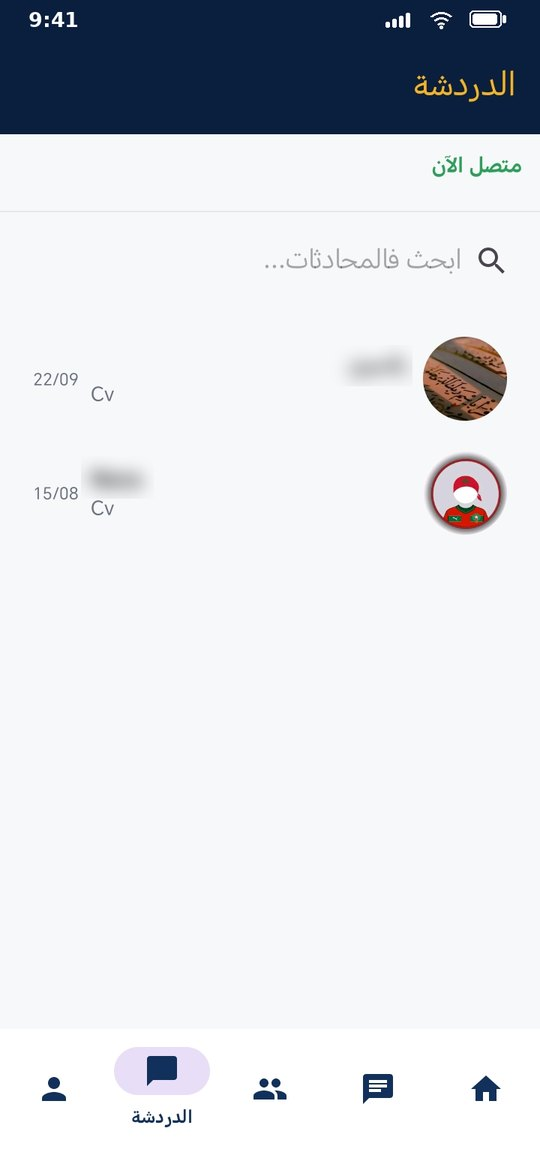
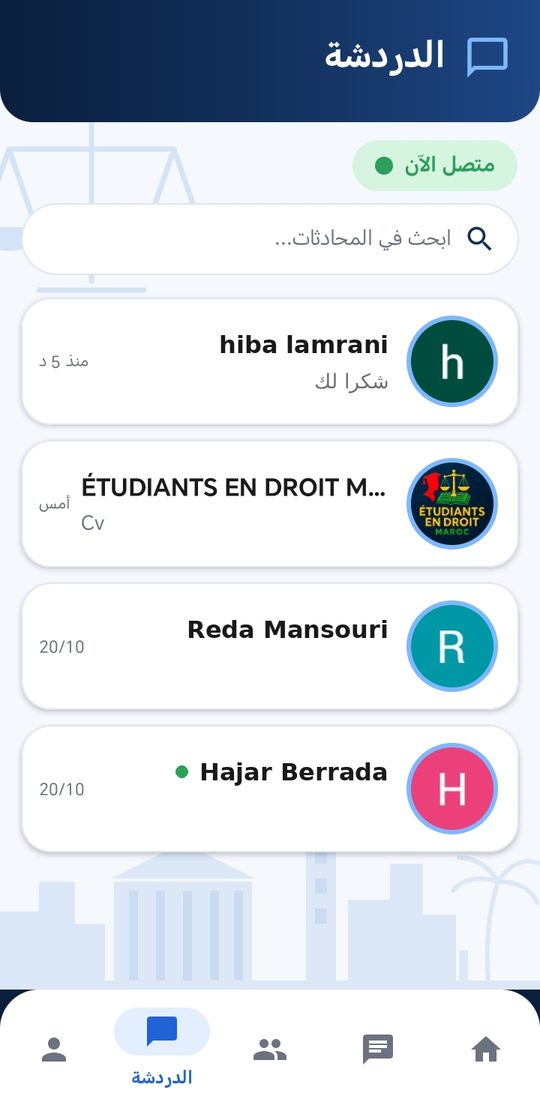
Site: replace showcase with current app screenshots (names anonymized) [skip ci]

diff --git a/docs/index.html b/docs/index.html
@@ -584,33 +584,39 @@
   <div class="phone-track">
     <div class="phone">
       <div class="phone-frame">
-        <div class="phone-screen"><img src="assets/screens/login.jpg?v=2" alt="تسجيل الدخول" loading="lazy"></div>
+        <div class="phone-screen"><img src="assets/screens/login.jpg?v=3" alt="تسجيل الدخول بحساب Google" loading="lazy"></div>
       </div>
       <div class="phone-caption">🔐 الدخول</div>
     </div>
     <div class="phone">
       <div class="phone-frame">
-        <div class="phone-screen"><img src="assets/screens/home.jpg?v=2" alt="الصفحة الرئيسية - المواد حسب الفصول" loading="lazy"></div>
+        <div class="phone-screen"><img src="assets/screens/subjects.jpg?v=3" alt="مواد السداسي الأول" loading="lazy"></div>
       </div>
-      <div class="phone-caption">🏠 الرئيسية</div>
+      <div class="phone-caption">📚 المواد</div>
     </div>
     <div class="phone">
       <div class="phone-frame">
-        <div class="phone-screen"><img src="assets/screens/forum.jpg?v=2" alt="المنتدى" loading="lazy"></div>
+        <div class="phone-screen"><img src="assets/screens/semesters.jpg?v=3" alt="فيديوهات القانون الخاص من S1 إلى S6" loading="lazy"></div>
+      </div>
+      <div class="phone-caption">🎬 الفيديوهات</div>
+    </div>
+    <div class="phone">
+      <div class="phone-frame">
+        <div class="phone-screen"><img src="assets/screens/forum.jpg?v=3" alt="المنتدى" loading="lazy"></div>
       </div>
       <div class="phone-caption">💬 المنتدى</div>
     </div>
     <div class="phone">
       <div class="phone-frame">
-        <div class="phone-screen"><img src="assets/screens/chat.jpg?v=2" alt="الدردشة" loading="lazy"></div>
+        <div class="phone-screen"><img src="assets/screens/chat.jpg?v=3" alt="الدردشة" loading="lazy"></div>
       </div>
       <div class="phone-caption">🗨 الدردشة</div>
     </div>
     <div class="phone">
       <div class="phone-frame">
-        <div class="phone-screen"><img src="assets/screens/friends.jpg?v=2" alt="الأصدقاء" loading="lazy"></div>
+        <div class="phone-screen"><img src="assets/screens/account.jpg?v=3" alt="صفحة حسابي والإعدادات" loading="lazy"></div>
       </div>
-      <div class="phone-caption">🤝 الأصدقاء</div>
+      <div class="phone-caption">👤 حسابي</div>
     </div>
   </div>
 
